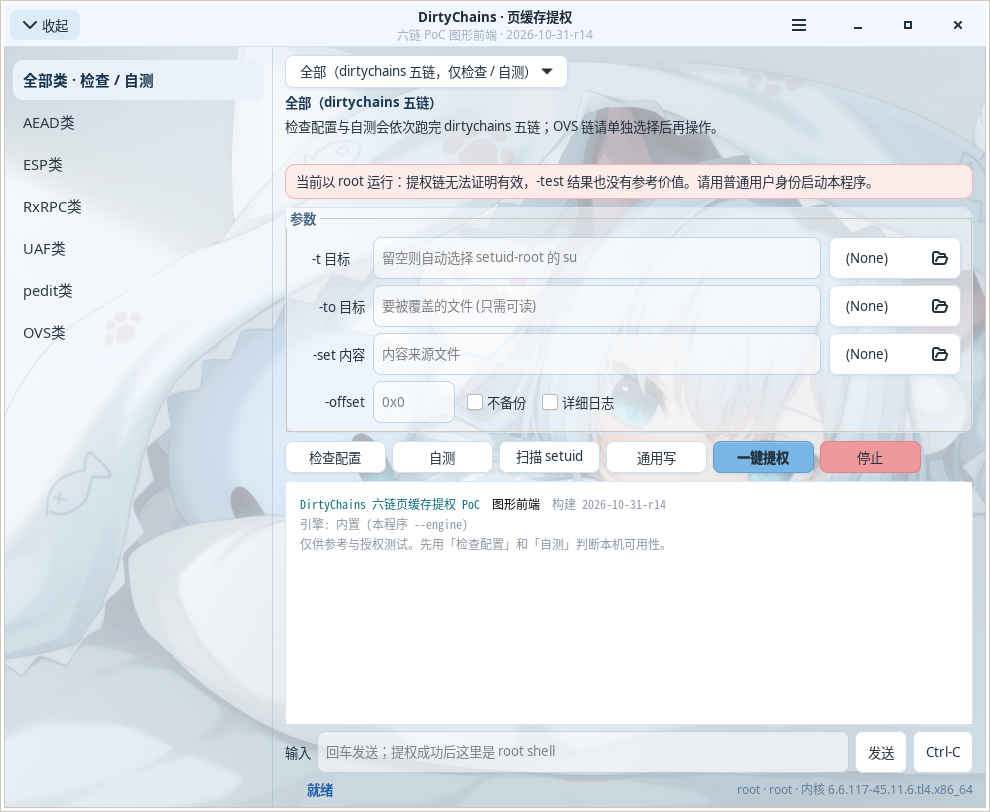
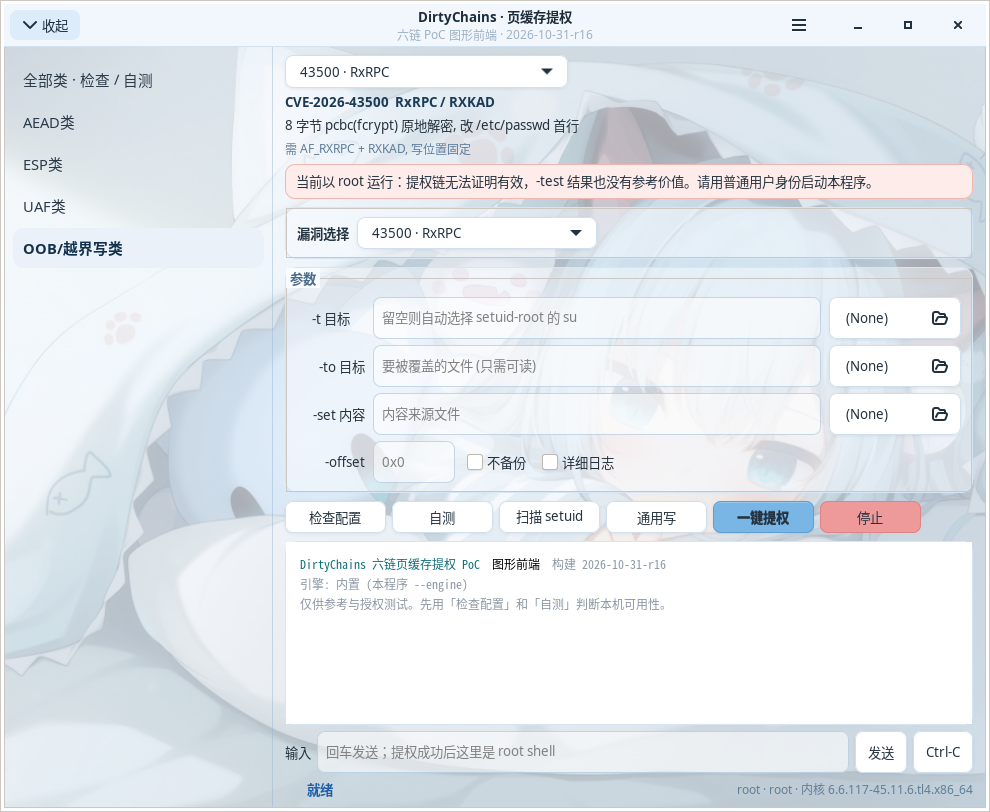
43500/46331/64531 合并为 OOB/越界写类；选中多链类别时在配置区上方弹出漏洞选择下拉框

diff --git a/dirtyfrag-gui.c b/dirtyfrag-gui.c
@@ -3693,7 +3693,7 @@ int ovswrap_main(int argc, char **argv)
 
 #define APP_TITLE       "DirtyChains · 页缓存提权"
 /* 构建标识: 标题栏副标题上直接显示, 用来确认跑的是不是最新这份 */
-#define DF_BUILD        "2026-10-31-r14"
+#define DF_BUILD        "2026-10-31-r16"
 #define APP_SUBTITLE    "六链 PoC 图形前端 · " DF_BUILD
 #define LOG_MAX_LINES   20000
 #define PTY_COLS        110
@@ -3710,47 +3710,60 @@ typedef struct {
     const char *desc;    /* 说明 */
     const char *need;    /* 前提 */
     int         engine;  /* 0 = 内置 dirtychains 引擎, 1 = ovswrap 引擎 */
-    const char *cls;     /* 侧栏里显示的类别名 */
 } Chain;
 
 static const Chain chains[] = {
     { "-2026-31431", "31431 · Copy Fail",
       "CVE-2026-31431  AF_ALG / AEAD",
       "splice 文件页进 AEAD, 原地解密写 4 字节",
-      "需 authencesn(hmac(sha256),cbc(aes)) + algif_aead", 0,
-      "AEAD类" },
+      "需 authencesn(hmac(sha256),cbc(aes)) + algif_aead", 0 },
 
     { "-2026-43284", "43284 · XFRM/ESP",
       "CVE-2026-43284  XFRM / ESP",
       "splice + esp_input 原地解密, 写 ESN 高 32 位",
-      "需非特权 userns + XFRM + ESP", 0,
-      "ESP类" },
+      "需非特权 userns + XFRM + ESP", 0 },
 
     { "-2026-43500", "43500 · RxRPC",
       "CVE-2026-43500  RxRPC / RXKAD",
       "8 字节 pcbc(fcrypt) 原地解密, 改 /etc/passwd 首行",
-      "需 AF_RXRPC + RXKAD, 写位置固定", 0,
-      "RxRPC类" },
+      "需 AF_RXRPC + RXKAD, 写位置固定", 0 },
 
     { "-2026-43494", "43494 · io_uring",
       "CVE-2026-43494  io_uring + RDS",
       "页引用计数劫持, 整页替换 setuid 文件",
-      "需 IORING_REGISTER_CLONE_BUFFERS (6.12+)", 0,
-      "UAF类" },
+      "需 IORING_REGISTER_CLONE_BUFFERS (6.12+)", 0 },
 
     { "-2026-46331", "46331 · act_pedit",
       "CVE-2026-46331  net/sched act_pedit",
       "sendfile 进 loopback, pedit 改 TCP 头, 写穿页缓存",
-      "需 act_pedit + clsact + userns", 0,
-      "pedit类" },
+      "需 act_pedit + clsact + userns", 0 },
 
     { "-2026-64531", "64531 · OVS CT",
       "CVE-2026-64531  net/openvswitch CT action",
       "伪造 SET action 越界读内核内存, dst_release 递减改 cred",
-      "需 openvswitch + userns，偏移读 offset/ 配置表", 1,
-      "OVS类" },
+      "需 openvswitch + userns，偏移读 offset/ 配置表", 1 },
 };
 #define N_CHAINS ((int)(sizeof(chains) / sizeof(chains[0])))
+
+/*
+ * 侧栏类别表。单链类 (members == NULL) 点击直接切链;
+ * 多链类点击后弹窗, 让用户在同一类里挑具体漏洞。
+ */
+static const int cat_oob_members[] = { 2, 4, 5 };   /* 43500 / 46331 / 64531 */
+
+static const struct {
+    const char *name;        /* 侧栏条目 */
+    int         first;       /* 单链类: chains 下标 */
+    const int  *members;     /* 多链类: chains 下标数组 */
+    int         n;
+} side_cats[] = {
+    { "AEAD类",        0, NULL,             0 },
+    { "ESP类",         1, NULL,             0 },
+    { "UAF类",         3, NULL,             0 },
+    { "OOB/越界写类", -1, cat_oob_members, (int)(sizeof(cat_oob_members) /
+                                                 sizeof(cat_oob_members[0])) },
+};
+#define N_CATS ((int)(sizeof(side_cats) / sizeof(side_cats[0])))
 
 /* ---------------------------------------------------------------------------
  * 应用状态
@@ -3764,6 +3777,9 @@ typedef struct {
     GtkWidget *revealer;     /* 展开后的左侧任务抽屉 */
     GtkWidget *task_list;    /* 抽屉里的任务列表 (GtkListBox) */
     gboolean    side_sync;   /* 列表 <-> 下拉框同步中, 防止互相触发 */
+    GtkWidget *cve_revealer; /* 多链类别的「漏洞选择」框 (配置区上方) */
+    GtkWidget *cve_combo;
+    gulong      cve_combo_sig;
     GtkWidget *banner, *banner_lbl;
     GtkWidget *combo;
     GtkWidget *lbl_name, *lbl_desc, *lbl_need;
@@ -4565,6 +4581,76 @@ static void update_desc(App *a)
     gtk_label_set_text(GTK_LABEL(a->lbl_need), c->need);
 }
 
+/* 当前链是否属于多链类别; 是则返回成员表 */
+static const int *chain_multi_members(int chain_idx)
+{
+    int c, i;
+
+    for (c = 0; c < N_CATS; c++) {
+        if (side_cats[c].members) {
+            for (i = 0; i < side_cats[c].n; i++)
+                if (side_cats[c].members[i] == chain_idx)
+                    return side_cats[c].members;
+        }
+    }
+    return NULL;
+}
+
+/*
+ * 「漏洞选择」框 (配置区上方): 只有当前链属于多链类别 (OOB/越界写类) 时
+ * 才显示, 里面只列该类的成员漏洞。
+ */
+static void sync_cve_box(App *a)
+{
+    int idx = gtk_combo_box_get_active(GTK_COMBO_BOX(a->combo));
+    const int *m;
+    int n = 0, k, cur = -1;
+
+    if (!a->cve_revealer || !a->cve_combo)
+        return;
+
+    m = idx > 0 ? chain_multi_members(idx - 1) : NULL;
+    if (!m) {
+        gtk_revealer_set_reveal_child(GTK_REVEALER(a->cve_revealer), FALSE);
+        return;
+    }
+
+    /* 数一下成员数 (members 以 -1 结尾没有约定, 这里靠类别表查) */
+    for (n = 0; n < N_CATS; n++)
+        if (side_cats[n].members == m)
+            break;
+    if (n >= N_CATS)
+        return;
+    n = side_cats[n].n;
+
+    g_signal_handler_block(a->cve_combo, a->cve_combo_sig);
+    gtk_combo_box_text_remove_all(GTK_COMBO_BOX_TEXT(a->cve_combo));
+    for (k = 0; k < n; k++) {
+        gtk_combo_box_text_append_text(GTK_COMBO_BOX_TEXT(a->cve_combo),
+                                       chains[m[k]].tag);
+        if (m[k] == idx - 1)
+            cur = k;
+    }
+    gtk_combo_box_set_active(GTK_COMBO_BOX(a->cve_combo), cur < 0 ? 0 : cur);
+    g_signal_handler_unblock(a->cve_combo, a->cve_combo_sig);
+
+    gtk_revealer_set_reveal_child(GTK_REVEALER(a->cve_revealer), TRUE);
+}
+
+/* 「漏洞选择」框里换漏洞 -> 同步主下拉框 */
+static void on_cve_combo_changed(GtkComboBox *box, gpointer data)
+{
+    App *a = data;
+    int k = gtk_combo_box_get_active(box);
+
+    if (k < 0 || k >= side_cats[N_CATS - 1].n)
+        return;
+    if (gtk_combo_box_get_active(GTK_COMBO_BOX(a->combo)) !=
+        cat_oob_members[k] + 1)
+        gtk_combo_box_set_active(GTK_COMBO_BOX(a->combo),
+                                 cat_oob_members[k] + 1);
+}
+
 static void side_select(App *a, int idx);
 
 static void on_combo_changed(GtkComboBox *box, gpointer data)
@@ -4575,6 +4661,7 @@ static void on_combo_changed(GtkComboBox *box, gpointer data)
     update_desc(a);
     /* 下拉框改了, 抽屉列表跟着选中 (side_sync 防止回环) */
     side_select(a, gtk_combo_box_get_active(GTK_COMBO_BOX(a->combo)));
+    sync_cve_box(a);
 }
 
 /* 简易提示对话框 */
@@ -5222,18 +5309,37 @@ static GtkWidget *build_actions(App *a)
 /*
  * 左上角「展开」拉开的任务抽屉。
  *
- * 纯列表版式: 每个条目是一类漏洞 (UAF类 / ESP类 / ...), 点条目等于选链,
- * 与顶部下拉框双向联动。对应链的全名放在条目 tooltip 里。
+ * 条目按漏洞类别组织 (AEAD类 / ESP类 / UAF类 / OOB/越界写类)。
+ * 单链类点击直接切链; OOB/越界写类聚合三条链, 点击后弹窗让用户挑。
+ * 列表与顶部下拉框双向联动。
  */
 #define SIDEBAR_W 268
 
-static void side_select(App *a, int idx)
+/* chains 下标 -> 侧栏行号 (0 = 全部类); 多链类选中父行 */
+static int cat_row_for_chain(int chain_idx)
+{
+    int c, i;
+
+    for (c = 0; c < N_CATS; c++) {
+        if (side_cats[c].members) {
+            for (i = 0; i < side_cats[c].n; i++)
+                if (side_cats[c].members[i] == chain_idx)
+                    return c + 1;
+        } else if (side_cats[c].first == chain_idx) {
+            return c + 1;
+        }
+    }
+    return -1;
+}
+
+static void side_select(App *a, int combo_idx)
 {
     GtkListBoxRow *row;
+    int row_idx = combo_idx > 0 ? cat_row_for_chain(combo_idx - 1) : 0;
 
-    if (!a->task_list)
+    if (!a->task_list || row_idx < 0)
         return;
-    row = gtk_list_box_get_row_at_index(GTK_LIST_BOX(a->task_list), idx);
+    row = gtk_list_box_get_row_at_index(GTK_LIST_BOX(a->task_list), row_idx);
     if (!row)
         return;
     a->side_sync = TRUE;
@@ -5244,16 +5350,38 @@ static void side_select(App *a, int idx)
 static void on_task_row_selected(GtkListBox *lb, GtkListBoxRow *row, gpointer data)
 {
     App *a = data;
-    int idx;
+    int idx, cat;
 
     (void)lb;
     if (a->side_sync || !row)
         return;
     idx = gtk_list_box_row_get_index(row);
-    if (idx < 0 || idx > N_CHAINS)
+    if (idx < 0 || idx > N_CATS)
         return;
-    if (gtk_combo_box_get_active(GTK_COMBO_BOX(a->combo)) != idx)
-        gtk_combo_box_set_active(GTK_COMBO_BOX(a->combo), idx);
+
+    if (idx == 0) {
+        gtk_combo_box_set_active(GTK_COMBO_BOX(a->combo), 0);
+        return;
+    }
+
+    cat = idx - 1;
+    if (side_cats[cat].members) {
+        /* 多链类: 当前链已在类里就保持, 否则落到位成员第一个,
+         * 具体选哪个漏洞交给配置区上方的「漏洞选择」下拉框 */
+        const int *m = side_cats[cat].members;
+        int cur = gtk_combo_box_get_active(GTK_COMBO_BOX(a->combo)) - 1;
+        int k, in = -1;
+
+        for (k = 0; k < side_cats[cat].n; k++)
+            if (m[k] == cur)
+                in = k;
+        if (in < 0)
+            gtk_combo_box_set_active(GTK_COMBO_BOX(a->combo), m[0] + 1);
+    } else if (gtk_combo_box_get_active(GTK_COMBO_BOX(a->combo)) !=
+               side_cats[cat].first + 1) {
+        gtk_combo_box_set_active(GTK_COMBO_BOX(a->combo),
+                                 side_cats[cat].first + 1);
+    }
 }
 
 static GtkWidget *build_task_sidebar(App *a)
@@ -5277,16 +5405,34 @@ static GtkWidget *build_task_sidebar(App *a)
     gtk_list_box_set_selection_mode(GTK_LIST_BOX(list), GTK_SELECTION_SINGLE);
     gtk_list_box_set_activate_on_single_click(GTK_LIST_BOX(list), TRUE);
 
-    for (i = 0; i <= N_CHAINS; i++) {
+    for (i = 0; i <= N_CATS; i++) {
         GtkWidget *row = gtk_list_box_row_new();
         GtkWidget *l = gtk_label_new(i == 0 ? "全部类 · 检查 / 自测"
-                                            : chains[i - 1].cls);
+                                            : side_cats[i - 1].name);
+        GString *tip;
 
         gtk_label_set_xalign(GTK_LABEL(l), 0.0f);
         gtk_widget_set_halign(l, GTK_ALIGN_START);
         gtk_widget_set_valign(l, GTK_ALIGN_CENTER);
-        if (i > 0)
-            gtk_widget_set_tooltip_text(row, chains[i - 1].name);
+
+        tip = g_string_new(NULL);
+        if (i == 0) {
+            g_string_assign(tip, "依次检查 / 自测 dirtychains 五链");
+        } else if (side_cats[i - 1].members) {
+            const int *m = side_cats[i - 1].members;
+            int k;
+
+            g_string_assign(tip, "包含: ");
+            for (k = 0; k < side_cats[i - 1].n; k++)
+                g_string_append_printf(tip, "%s%s", k ? " / " : "",
+                                       chains[m[k]].name);
+            g_string_append(tip, "\n在配置区上方的「漏洞选择」框里挑具体漏洞");
+        } else {
+            g_string_assign(tip, chains[side_cats[i - 1].first].name);
+        }
+        gtk_widget_set_tooltip_text(row, tip->str);
+        g_string_free(tip, TRUE);
+
         gtk_container_add(GTK_CONTAINER(row), l);
         gtk_container_add(GTK_CONTAINER(list), row);
     }
@@ -5715,6 +5861,50 @@ static void build_window(App *a)
     gtk_widget_set_vexpand(a->revealer, TRUE);
     gtk_widget_set_valign(a->revealer, GTK_ALIGN_FILL);
     gtk_container_add(GTK_CONTAINER(a->revealer), build_task_sidebar(a));
+
+    /* ── 「漏洞选择」框: 选中多链类别 (OOB/越界写类) 时才滑出 ── */
+    {
+        GtkWidget *frame = gtk_frame_new(NULL);
+        GtkWidget *inner = gtk_box_new(GTK_ORIENTATION_VERTICAL, 4);
+        GtkWidget *row = gtk_box_new(GTK_ORIENTATION_HORIZONTAL, 8);
+        GtkWidget *lbl = gtk_label_new(NULL);
+
+        gtk_style_context_add_class(gtk_widget_get_style_context(frame),
+                                    "card");
+        gtk_label_set_markup(GTK_LABEL(lbl), "<b>漏洞选择</b>");
+        gtk_widget_set_halign(lbl, GTK_ALIGN_START);
+        gtk_widget_set_tooltip_text(lbl, "同一类别里有多个漏洞时, 在这里挑具体用哪个");
+
+        a->cve_combo = gtk_combo_box_text_new();
+        gtk_widget_set_size_request(a->cve_combo, 240, -1);
+        gtk_widget_set_halign(a->cve_combo, GTK_ALIGN_START);
+        a->cve_combo_sig = g_signal_connect(a->cve_combo, "changed",
+                                            G_CALLBACK(on_cve_combo_changed), a);
+        gtk_box_pack_start(GTK_BOX(row), lbl, FALSE, FALSE, 0);
+        gtk_box_pack_start(GTK_BOX(row), a->cve_combo, FALSE, FALSE, 0);
+        gtk_box_pack_start(GTK_BOX(inner), row, FALSE, FALSE, 0);
+
+        gtk_widget_set_margin_start(inner, 10);
+        gtk_widget_set_margin_end(inner, 10);
+        gtk_widget_set_margin_top(inner, 8);
+        gtk_widget_set_margin_bottom(inner, 8);
+        gtk_container_add(GTK_CONTAINER(frame), inner);
+
+        a->cve_revealer = gtk_revealer_new();
+        gtk_revealer_set_transition_type(GTK_REVEALER(a->cve_revealer),
+                                         GTK_REVEALER_TRANSITION_TYPE_SLIDE_DOWN);
+        gtk_revealer_set_transition_duration(GTK_REVEALER(a->cve_revealer), 160);
+        gtk_revealer_set_reveal_child(GTK_REVEALER(a->cve_revealer), FALSE);
+        gtk_container_add(GTK_CONTAINER(a->cve_revealer), frame);
+    }
+    {
+        GtkWidget *cve = a->cve_revealer;
+
+        gtk_widget_set_margin_start(cve, 12);
+        gtk_widget_set_margin_end(cve, 12);
+        gtk_widget_set_margin_top(cve, 8);
+    }
+    gtk_box_pack_start(GTK_BOX(vbox), a->cve_revealer, FALSE, FALSE, 0);
 
     gtk_box_pack_start(GTK_BOX(vbox), frame_params, FALSE, FALSE, 0);
     gtk_box_pack_start(GTK_BOX(vbox), frame_actions, FALSE, FALSE, 0);
